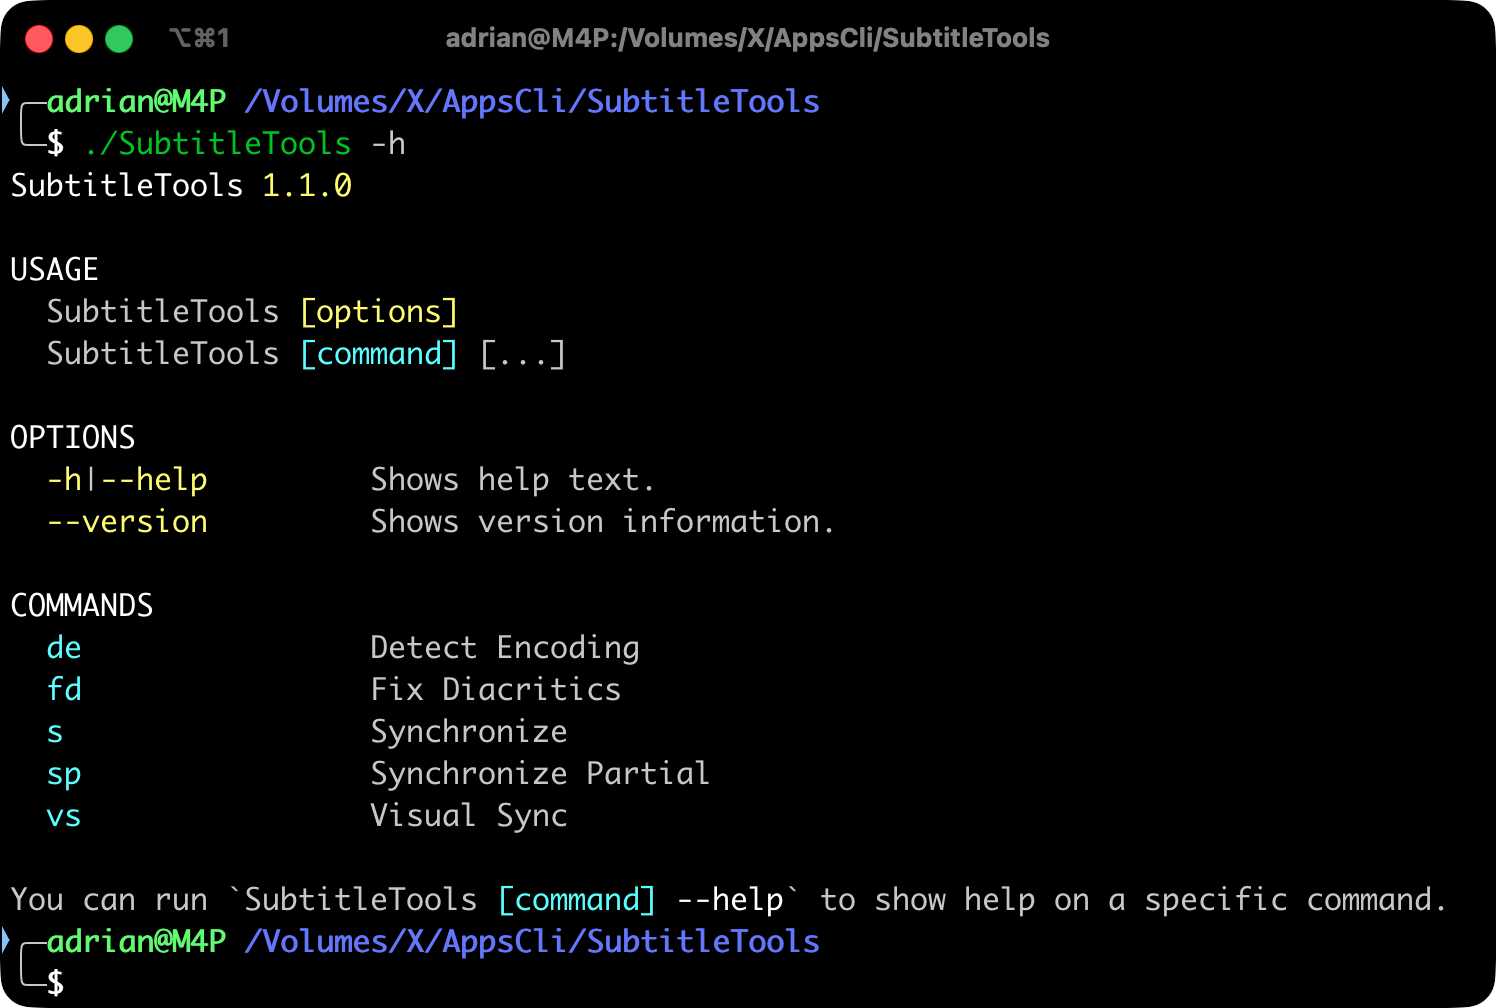
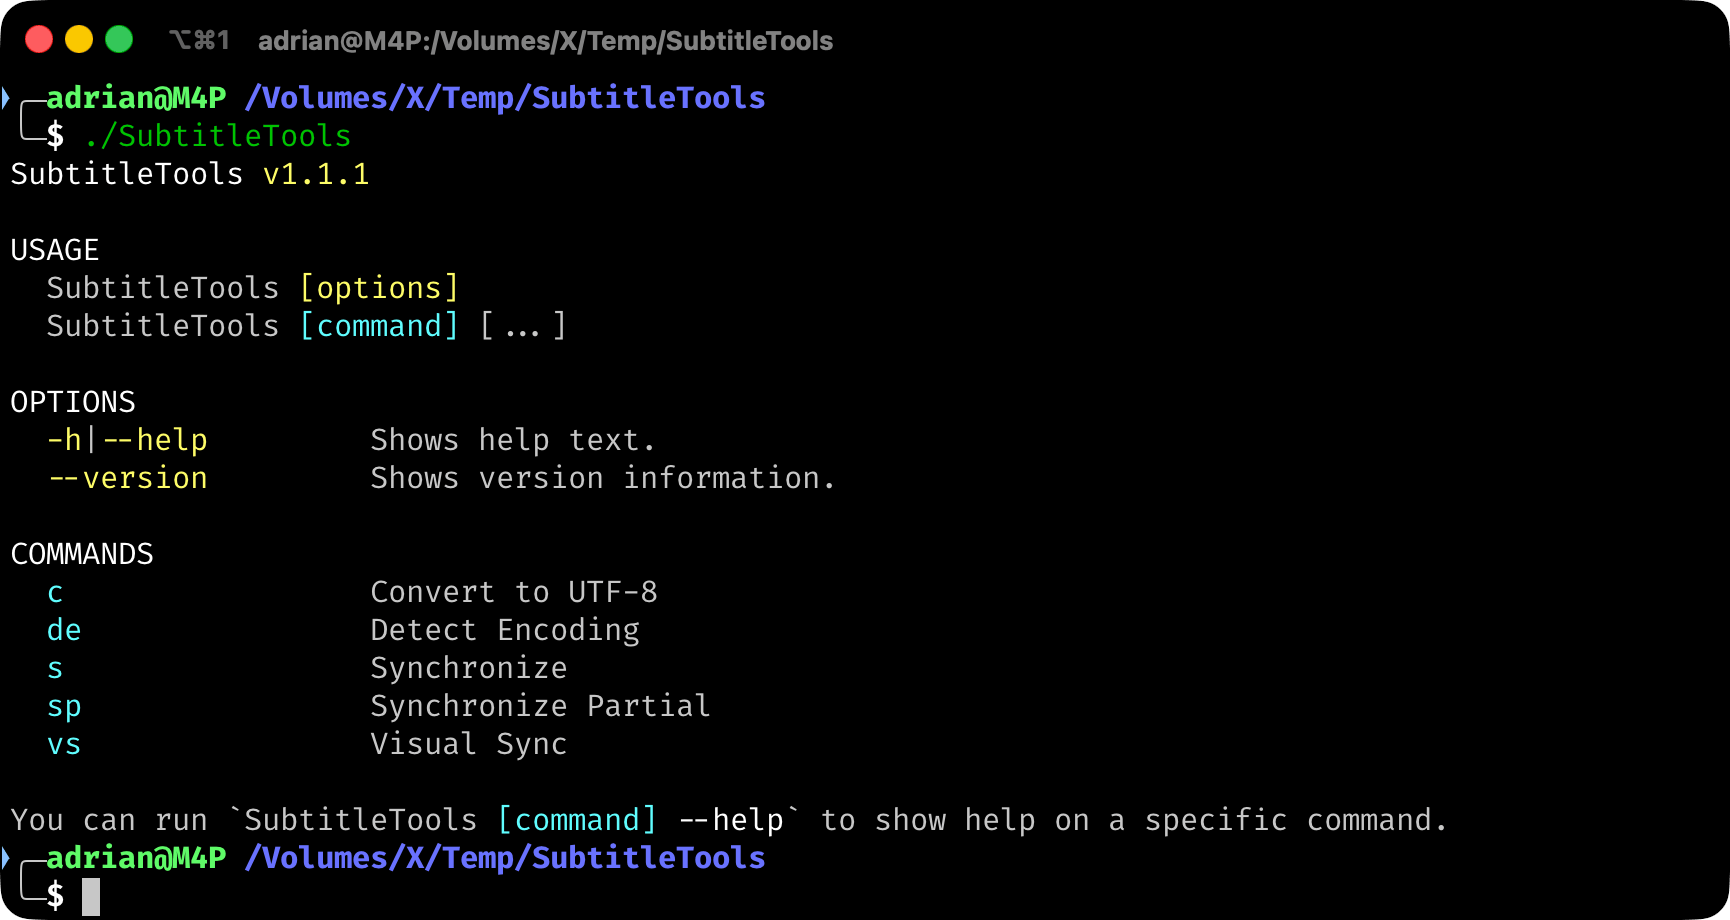
Change FixDiacritics to Convert to UTF-8

diff --git a/src/SubtitleTools.Tests/Commands/ConvertCommandTests.cs b/src/SubtitleTools.Tests/Commands/ConvertCommandTests.cs
@@ -1,7 +1,9 @@
+using System.Text;
+
 namespace SubtitleTools.Tests.Commands;
 
 [Category("Functional")]
-public class FixDiacriticsCommandTests
+public class ConvertCommandTests
 {
     private FakeInMemoryConsole _console;
     private IFileSystem _fileSystem;
@@ -10,6 +12,7 @@ public class FixDiacriticsCommandTests
     [SetUp]
     public void Setup()
     {
+        Encoding.RegisterProvider(CodePagesEncodingProvider.Instance);
         var services = new ServiceCollection();
         services.AddSubtitleToolsServices();
         services.AddSubtitleToolsFormatServices();
@@ -40,7 +43,7 @@ public class FixDiacriticsCommandTests
     {
         // Arrange
         _fileSystem.FileExists("NotFound.srt").Returns(false);
-        var command = new FixDiacriticsCommand(_fileSystem, _options) { FileName = "NotFound.srt" };
+        var command = new ConvertCommand(_fileSystem, _options) { FileName = "NotFound.srt" };
 
         // Act
         await command.ExecuteAsync(_console);
@@ -54,20 +57,31 @@ public class FixDiacriticsCommandTests
     [Test]
     public async Task Execute_Successfully()
     {
+        Encoding.RegisterProvider(CodePagesEncodingProvider.Instance);
         // Arrange
+        const string content = "Ă ă Â â Î î Ș ș Ț ț";
         _fileSystem.FileExists("Subtitle.srt").Returns(true);
-        _fileSystem.ReadContent("Subtitle.srt").Returns("Ã ã Ä ä ª Ş º ş Þ Ţ þ ţ");
+        _fileSystem.ReadContent("Subtitle.srt").Returns(content);
 
-        var command = new FixDiacriticsCommand(_fileSystem, _options) { FileName = "Subtitle.srt" };
+        var command = new ConvertCommand(_fileSystem, _options)
+        {
+            FileName = "Subtitle.srt"
+        };
 
         // Act
         await command.ExecuteAsync(_console);
 
         // Assert
         _fileSystem.Received(1).Backup(command.FileName);
-        const string expected = "Ă ă Ă ă Ș Ș ș ș Ț Ț ț ț";
-        await _fileSystem.Received(1).WriteContent(command.FileName, Arg.Is<string>(c => c == expected));
+
+        const string expected = "Ă ă Â â Î î Ș ș Ț ț";
+        await _fileSystem.Received(1)
+            .WriteContent(
+                command.FileName,
+                Arg.Is<string>(c => c == expected)
+            );
+
         var output = _console.ReadOutputString();
-        Assert.That(output, Is.EqualTo("Diacritics fixed successfully\n"));
+        Assert.That(output, Is.EqualTo("Successfully converted to UTF-8\n"));
     }
 }

diff --git a/src/SubtitleTools/Commands/ConvertCommand.cs b/src/SubtitleTools/Commands/ConvertCommand.cs
@@ -1,0 +1,27 @@
+namespace SubtitleTools.Commands;
+
+[Command("c", Description = "Convert to UTF-8")]
+public class ConvertCommand(IFileSystem fileSystem, IOptions<Settings> options) : ICommand
+{
+    private readonly Settings _settings = options.Value;
+
+    [CommandOption("file-name", 'f', Description = "FileName", IsRequired = true)]
+    public required string FileName { get; init; }
+
+    public async ValueTask ExecuteAsync(IConsole console)
+    {
+        if (!fileSystem.FileExists(FileName))
+        {
+            await console.Output.WriteLineAsync("File not found");
+            return;
+        }
+
+        if (_settings.AutoCreateBackup)
+            fileSystem.Backup(FileName);
+
+        var subtitle = await fileSystem.ReadContent(FileName);
+
+        await fileSystem.WriteContent(FileName, subtitle);
+        await console.Output.WriteLineAsync("Successfully converted to UTF-8");
+    }
+}

diff --git a/src/SubtitleTools/Extensions/ServiceExtensions.cs b/src/SubtitleTools/Extensions/ServiceExtensions.cs
@@ -18,7 +18,7 @@ public static class ServiceExtensions
     {
         // Register command(s)
         services.AddTransient<DetectEncodingCommand>();
-        services.AddTransient<FixDiacriticsCommand>();
+        services.AddTransient<ConvertCommand>();
         services.AddTransient<SynchronizeCommand>();
         services.AddTransient<SynchronizePartialCommand>();
         services.AddTransient<VisualSyncCommand>();

diff --git a/src/SubtitleTools.Tests/Extensions/ServiceExtensionsTests.cs b/src/SubtitleTools.Tests/Extensions/ServiceExtensionsTests.cs
@@ -41,7 +41,7 @@ public class ServiceExtensionsTests
             var commands = new[]
             {
                 typeof(DetectEncodingCommand),
-                typeof(FixDiacriticsCommand),
+                typeof(ConvertCommand),
                 typeof(SynchronizeCommand),
                 typeof(SynchronizePartialCommand),
                 typeof(VisualSyncCommand)
